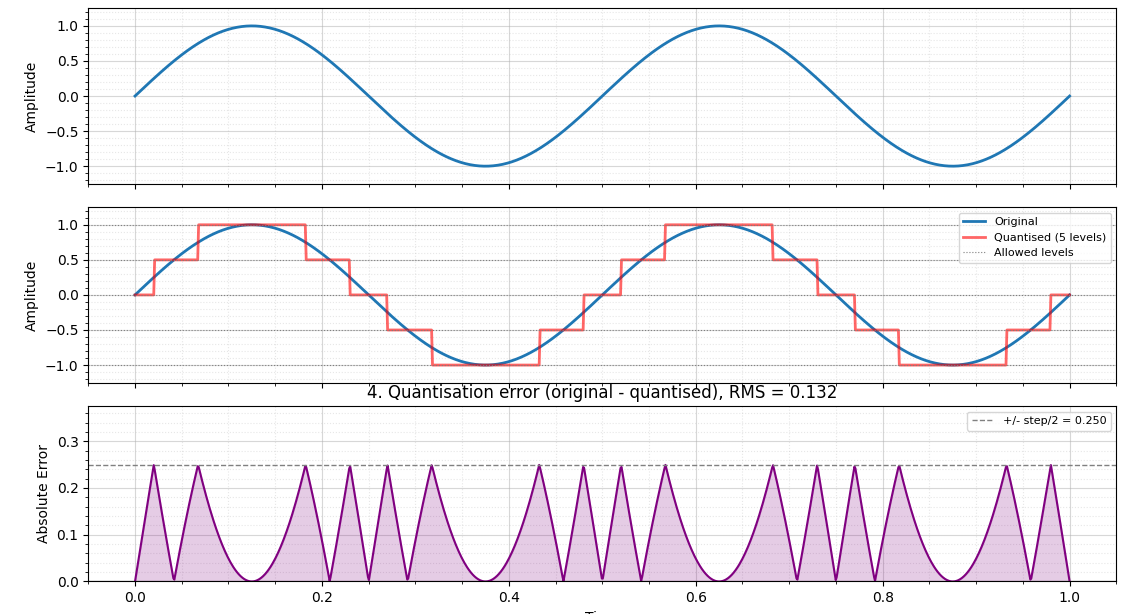
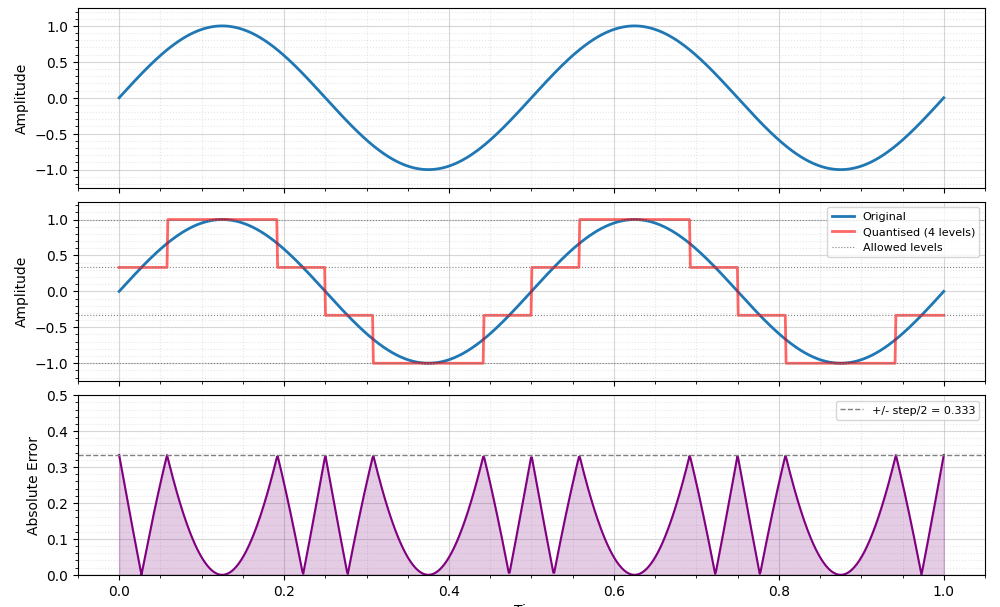
Regenerated Figures_1_1.png and Figure_1_3.png

diff --git a/main.py b/main.py
@@ -6,11 +6,11 @@ from PIL import Image
 from src import dither, ImageLoader, ImageAnalyser
 from src.pixelize import pixelize
 
-IMAGE_NAMES = "Eagle.jpg" # None = every image in data/images/
-MAX_SIZE = 1200              # longest side after pixelizing
+IMAGE_NAMES = "Mona-Lisa.jpg" # None = every image in data/images/
+MAX_SIZE = 10_000              # longest side after pixelizing
 METHODS = ["floyd-steinberg", "atkinson", "jarvis", "sierra"]
-METHOD = "sierra"
-LEVELS = 3                  # Distinct brightness values
+METHOD = "floyd-steinberg"
+LEVELS = 2                  # Distinct brightness values
 COLOR = True                # False = grayscale, True = dither R, G, B separately
 BAYER_SIZE = 4              # only used when METHOD == "bayer"
 UPSCALE = 1                # enlarge result so dither pixels are visible (1 = OFF)
@@ -75,11 +75,13 @@ def main() -> None:
             print(f"{path.name}: {original.size[0]}x{original.size[1]} -> {dithered.size[0]}x{dithered.size[1]}, saved {out_path}")
 
         if SHOW_RESULTS:
+            """
             ImageLoader.show(original, dithered,
                              titles=[f"Original ({original.size[0]}x{original.size[1]})", f"Sierra Dithered ({dithered.size[0]}x{dithered.size[1]})"],
                              caption=None#f"MAX_SIZE={MAX_SIZE} LEVELS={LEVELS}"
                              )
-            #ImageLoader.show_zoom(original, dithered, region=(800, 600, 200), titles=["Original", f"Dithered"])
+            """
+            ImageLoader.show_zoom(original, dithered, region=(900, 650, 100), titles=["Original", f"Dithered"])
 
 if __name__ == "__main__":
     main()

diff --git a/src/QuantisationDemo.py b/src/QuantisationDemo.py
@@ -70,7 +70,7 @@ def show_quantisation(levels: int = 8, num_samples: int = 32, cycles: float = 2.
                label=f"+/- step/2 = {step / 2:.3f}")
     ax.axhline(-step / 2, color="gray", linestyle="--", linewidth=1)
     ax.set_ylim(0, step * 0.75)
-    ax.set_title(f"4. Quantisation error (original - quantised), RMS = {rms:.3f}")
+    #ax.set_title(f"3. Quantisation error (original - quantised), RMS = {rms:.3f}")
     ax.set_ylabel("Absolute Error")
     ax.set_xlabel("Time")
     ax.legend(loc="upper right", fontsize=8)
@@ -90,5 +90,5 @@ def show_quantisation(levels: int = 8, num_samples: int = 32, cycles: float = 2.
 
 if __name__ == "__main__":
     bits = 2
-    levels = 2**bits + 1
-    show_quantisation(levels=levels, num_samples=16+1)
+    levels = 2**bits
+    show_quantisation(levels=levels, num_samples=4)
